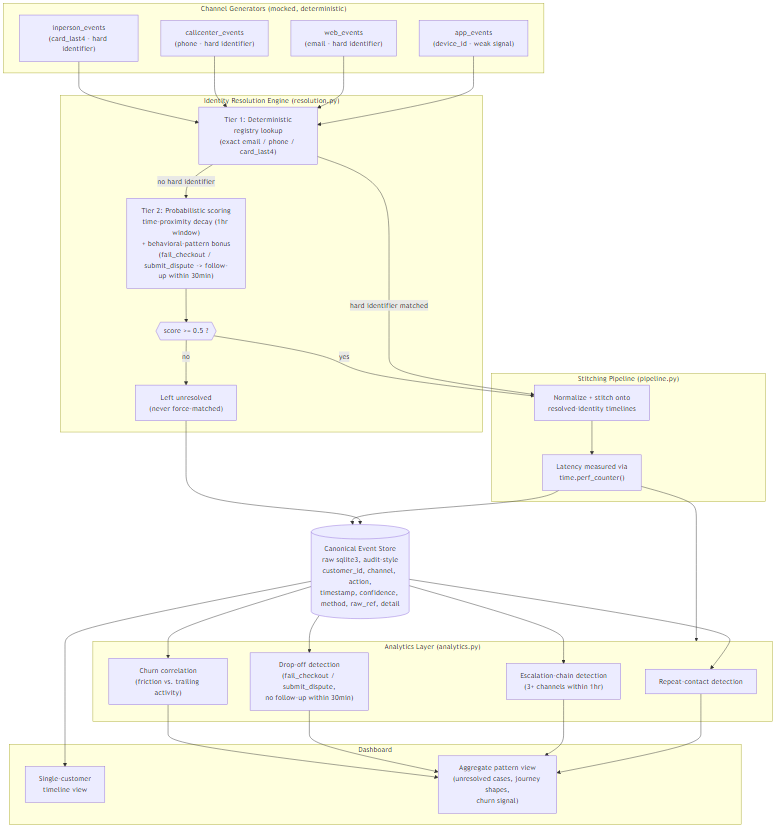
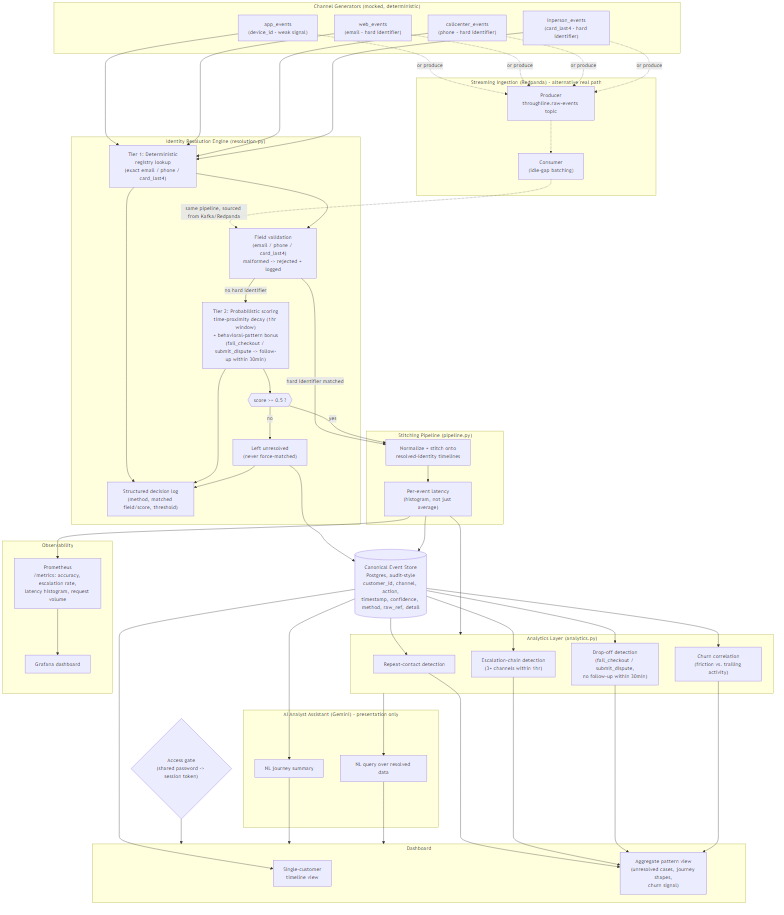
Update architecture diagram and Built-with/scalability language for what's actually verified working
Diagram now shows the real stack: Postgres (not sqlite), the
Redpanda streaming path alongside in-process seeding, observability,
access gate, and the AI assistant sitting outside the resolution
decision path. README/proposal flip "becomes"/"designed to scale to"
to "built" for ingestion, event store, and observability -- only
Snowflake/BigQuery stays future-tense, since that's the one piece
not yet built (blocked on account credentials).

Claude-Session: https://claude.ai/code/session_01TxoomNxeXQhnqtvb3z6ENm

diff --git a/docs/proposal.md b/docs/proposal.md
@@ -55,17 +55,17 @@ All figures below are measured against a live server instance (real SQLite file,
 4. **Dual consumption** — every resolved (and unresolved) event lands in an audit-style SQLite store *and* feeds the analytics layer in the same pass, so the two never drift out of sync.
 5. **Analytics computed from the resolved timeline itself** — repeat-contact, escalation-chain, and drop-off detection run against what the resolution engine actually produced, not against seeded ground truth, so the churn correlation is a genuine derived finding.
 6. **Live demo sequence** — a WebSocket-driven `/demo/run` endpoint replays: four scattered events arriving from different channels → resolving live onto one identity → a deliberately unresolved case appearing → an aggregate pattern reveal. This is built for a judge-facing walkthrough, not just an API contract.
-7. **Testing** — 33 passing pytest tests covering generators, resolution (including both ambiguous cases above), the pipeline, and analytics.
+7. **Testing** — 35 passing pytest tests covering generators, resolution (including both ambiguous cases above), the pipeline, analytics, and the API (auth included), run against a real Postgres in CI on every push.
 
 ## 6. Technical Details
 
-**Stack:** FastAPI + raw `sqlite3` (no ORM, no OPA, no Postgres, no Redis) on the backend; React + Vite on the frontend. This is a deliberate choice, not a shortcut — a two-tier resolution engine and an append-only audit event store are the kind of financial-services-adjacent logic that benefits from being boring and directly inspectable rather than hidden behind an ORM abstraction or a policy engine judges can't easily read line by line.
+**Stack:** FastAPI + Postgres (raw `psycopg`, no ORM, no OPA) on the backend; React + Vite on the frontend. This is a deliberate choice, not a shortcut — a two-tier resolution engine and an append-only audit event store are the kind of financial-services-adjacent logic that benefits from being boring and directly inspectable rather than hidden behind an ORM abstraction or a policy engine judges can't easily read line by line. Built on top: real Redpanda streaming ingestion (a real topic, producer, and consumer feeding the same pipeline), Prometheus/Grafana observability, structured decision logging with input validation on every identity field, a shared-password access gate, CI, and a Gemini-powered AI analyst assistant that only reads already-resolved data.
 
 **Architecture:**
 
 ![architecture](architecture.png)
 
-The four channel generators feed the identity resolution engine (deterministic registry match, then probabilistic scoring for anything without a hard identifier). Resolved events flow into the stitching pipeline, which writes onto both the audit-style SQLite event store and the analytics layer in the same pass. Both the store and the analytics layer feed the dashboard: a single-customer timeline view, and an aggregate pattern view.
+The four channel generators feed the identity resolution engine (deterministic registry match, then probabilistic scoring for anything without a hard identifier) either in-process or via a real Redpanda topic/consumer. Resolved events flow into the stitching pipeline, which writes onto both the audit-style Postgres event store and the analytics layer in the same pass, with every resolution decision structured-logged to the exact rule/score that produced it. The store and analytics layer feed the dashboard (behind a shared-password access gate) — a single-customer timeline view, an aggregate pattern view, and an AI-assistant layer that summarizes/queries the already-resolved data in plain English without touching resolution logic. Prometheus scrapes accuracy/latency/escalation/request metrics into a Grafana dashboard throughout.
 
 **Phase 6 demo sequence:**
 
@@ -82,15 +82,18 @@ flowchart LR
 - The known-customer registry, the ambiguous shared-device pair, and the orphan phone number are all intentionally constructed test cases, designed to stress the resolution engine's honesty under ambiguity — not drawn from or representative of any real population.
 - Thresholds (1-hour time-proximity window, 30-minute behavioral-pattern window, 0.5 confidence threshold) are explainable, rule-based constants chosen for a defensible pitch narrative, not tuned against real-world data.
 
-**Scalability — the production migration path:**
+**Scalability — the production migration path, built not just claimed:**
 
-This prototype is intentionally built on a boring, auditable stack so the logic — not the infrastructure — is what's being evaluated. The production migration path is explicit, not hand-waved:
+This prototype is intentionally built on a boring, auditable stack so the logic — not the infrastructure — is what's being evaluated. The production migration path isn't hand-waved; most of it is demonstrated, not just described:
 
-- **Ingestion:** the in-process mock event generators become real streaming ingestion at scale — **Kafka or Spark Streaming** — consuming actual app, web, call-center, and in-person event feeds instead of synthetic ones.
-- **Event store:** the raw SQLite file becomes a warehouse-grade store — **Snowflake or BigQuery** — for the canonical, audit-style event log, preserving the same schema (customer_id, channel, action, timestamp, confidence, method, raw_ref, detail) at production scale and retention.
+- **Ingestion — built:** the in-process mock event generators are also producible onto a real **Redpanda** (Kafka-API compatible) topic, with a real consumer feeding the same stitching pipeline `/seed` uses in-process. Same resolution logic either way; this is an additional real path, not a mocked one.
+- **Event store — built:** the canonical, audit-style event log runs on **Postgres**, same schema (customer_id, channel, action, timestamp, confidence, method, raw_ref, detail), same append-only design, now durable and multi-connection-safe.
+- **Observability — built:** Prometheus scrapes resolution accuracy, escalation rate, a real per-event pipeline-latency histogram, and request volume; a provisioned Grafana dashboard renders all four from live data.
+- **AI analyst layer — built:** a Gemini-powered natural-language journey summary and NL query over the aggregate view, strictly additive on top of already-resolved, already-audited data — zero LLM involvement in identity resolution itself.
+- **Warehouse mirror — remaining:** the canonical Postgres store still has a path to a warehouse-grade mirror — **Snowflake or BigQuery** — for analytical workloads at production retention/scale. Not yet built; the primary store stays Postgres either way.
 - **Analytics layer:** the output shape of the analytics layer (repeat-contact, escalation, drop-off, churn correlation) is deliberately designed to **feed a downstream product analytics tool like Amplitude or Mixpanel**, not to replace one. Throughline's job is to solve cross-channel identity resolution and produce a trustworthy, resolved event stream — not to reinvent a product analytics platform.
 
-This is the deliberate migration path from a boring, auditable prototype stack to production infrastructure — not a system that's half-built now and hoping to grow into these pieces later.
+This is a migration path most of which is already standing, not a system that's half-built now and hoping to grow into these pieces later.
 
 ---
 

diff --git a/README.md b/README.md
@@ -15,14 +15,25 @@ Built for AmEx CodeStreet 2026, theme: Cross-Channel Journey Stitching. See
 
 ## Stack
 
-- Backend: FastAPI + raw `sqlite3` (no ORM, no Postgres/Redis)
+- Backend: FastAPI + Postgres (raw `psycopg`, no ORM)
 - Identity resolution: two-tier rule-based matching (deterministic registry
   lookup, then confidence-scored probabilistic linkage) — no ML, deliberately
-  explainable
+  explainable; zero LLM involvement in resolution decisions
+- Streaming ingestion: Redpanda (Kafka-API compatible) — a real topic,
+  producer, and consumer feed the same stitching pipeline `/seed` uses
+  in-process, as an alternative real path, not a replacement
+- Observability: Prometheus (resolution accuracy, escalation rate, pipeline
+  latency histogram, request volume) + a provisioned Grafana dashboard
+- AI analyst assistant: Gemini-powered natural-language journey summaries
+  and NL queries, strictly a presentation layer over already-resolved data
+- CI: GitHub Actions runs the full test suite (with a real Postgres service
+  container) on every push
+- Access gate: shared-password session auth in front of the analyst
+  dashboard; `/health` and `/metrics` stay open for probes/scraping
 - Frontend: React 18 + Vite, WebSocket-driven live resolution demo
-- Boring, auditable stack by design; see the proposal's scalability section
-  for the production migration path (Kafka/Spark, Snowflake/BigQuery,
-  Amplitude/Mixpanel)
+- Boring, auditable stack by design; one remaining migration-path item not
+  yet built: a Snowflake/BigQuery mirror of Postgres (see the proposal's
+  scalability section)
 
 ## Setup
 
